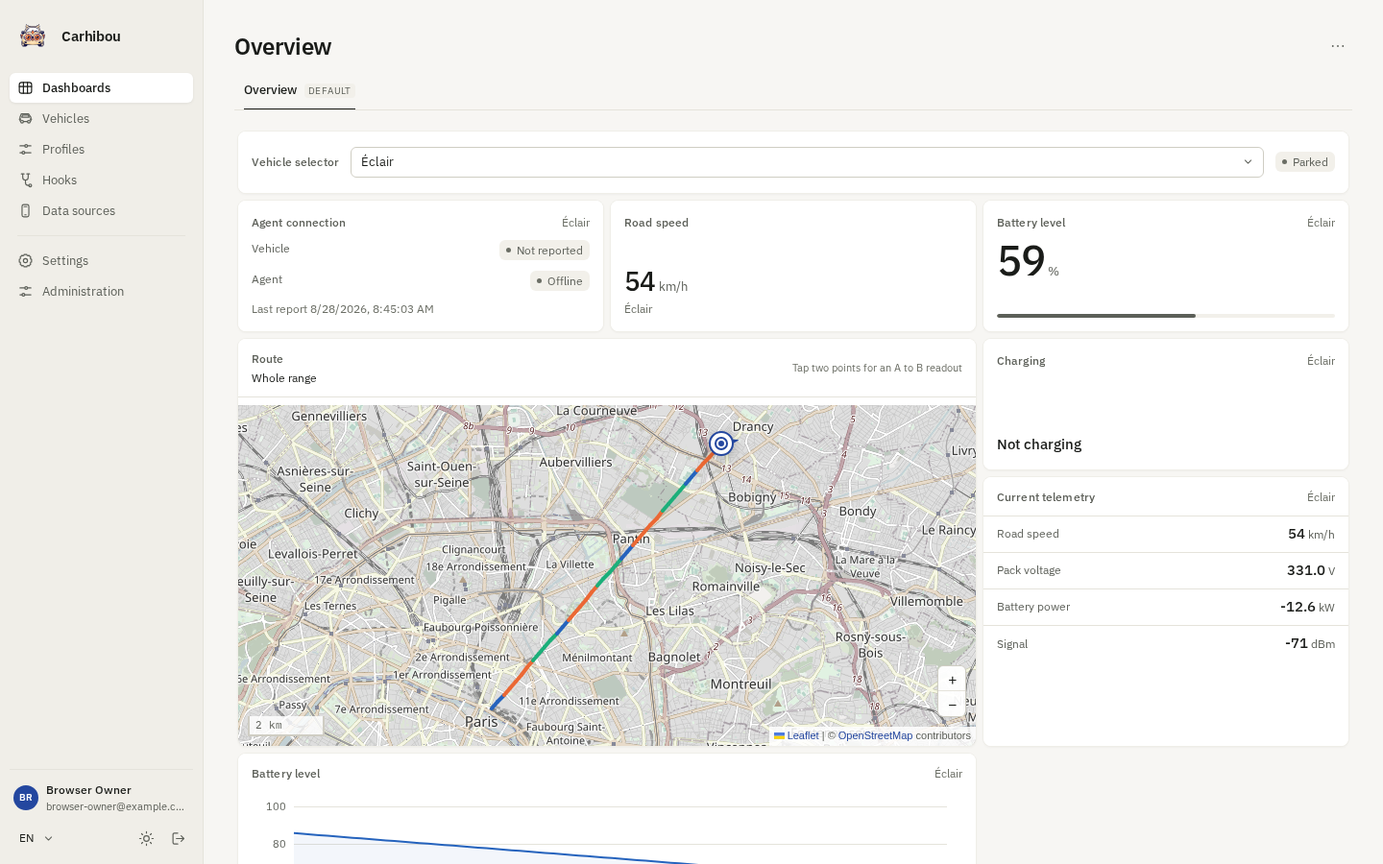
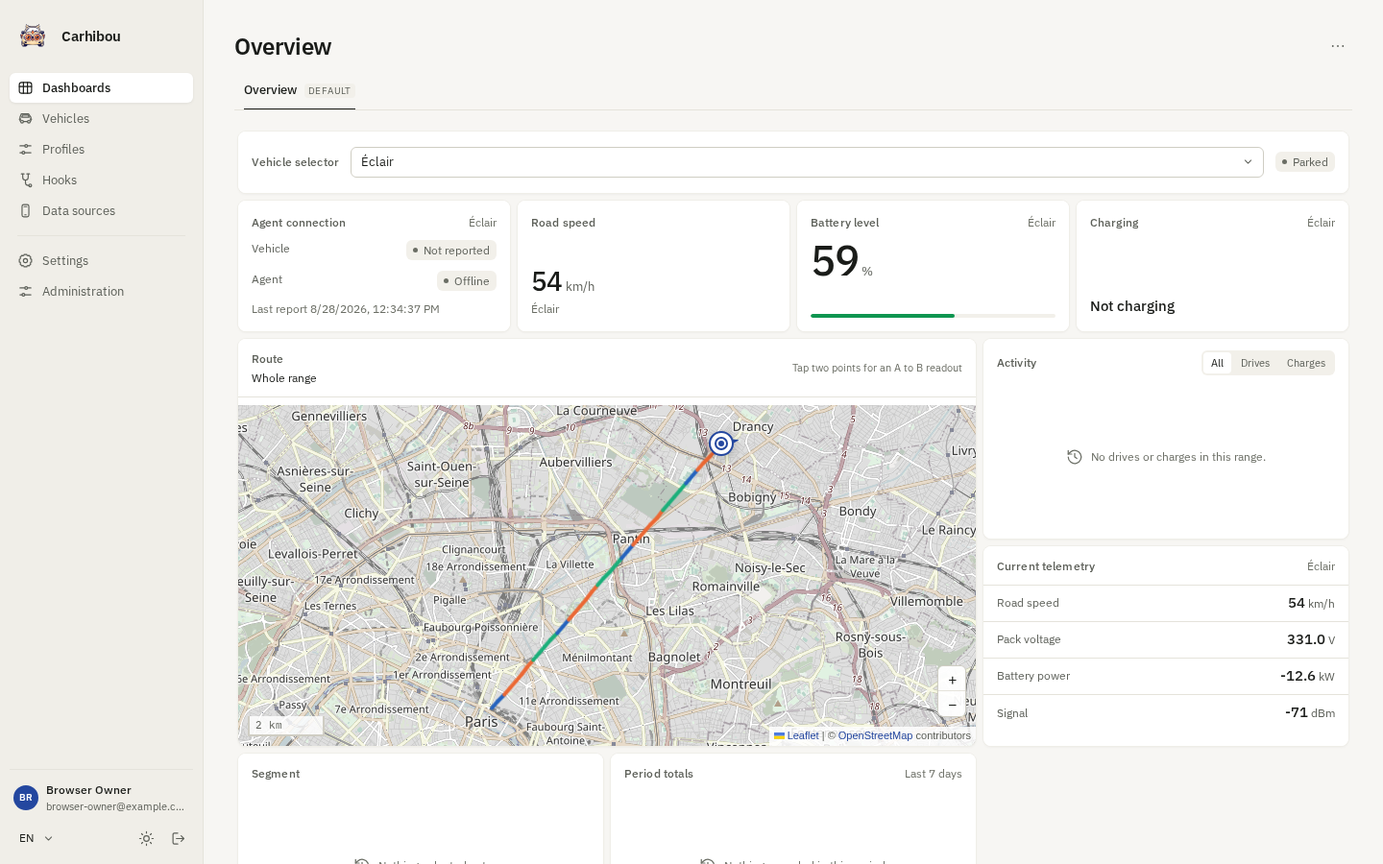
feat: Overview showcases the insight widgets with honest visibility
The default preset grows to thirteen widgets ordered by the questions an
owner asks; universal cards show their empty state while EV-dependent ones
hide until the vehicle reports that data, each per-card configurable.
Period stats omit the energy row for vehicles that never charged. The e2e
hook step synchronizes on the UI before reading the API.

diff --git a/frontend/src/widgets/registry.ts b/frontend/src/widgets/registry.ts
@@ -22,6 +22,25 @@ import { chargingState, energySummary, metricReading, secondaryReadings } from '
 const reports = (vehicle: Vehicle | null | undefined, key: string): boolean =>
   metricReading(vehicle, key).value !== null
 
+/**
+ * Whether a segment-derived card can be hidden.
+ *
+ * Drives and charges come from an endpoint isEmpty cannot await, so the only
+ * signal available at layout time is whether the vehicle has ever reported at
+ * all. A vehicle with state but no drives yet keeps its card and says so; only
+ * one that has never reported is hidden.
+ */
+const neverReported = (vehicle: Vehicle | null | undefined): boolean => !vehicle?.state
+
+/** The pair XyChartWidget falls back to, kept here so isEmpty judges the same axes. */
+export const XY_DEFAULTS = { x: 'battery.soc', y: 'charging.power' }
+
+/*
+ * Two types carry no isEmpty, so the editor offers them no hiding toggle.
+ * `vehicle-selector` is the control the rest of the board follows: hiding it
+ * would strand every other card. `hook-activity` is not vehicle-scoped at all,
+ * and isEmpty is only handed a vehicle, so it has nothing to answer from.
+ */
 const definitions: DashboardWidgetDefinition[] = [
   { type:'vehicle-selector', titleKey:'dashboards.vehicleSelector', component:VehicleSelectorWidget, defaultSize:{w:12,h:1}, needsMetric:false, configSchema:{fields:['title']} },
   { type:'vehicle-media', titleKey:'dashboards.vehicleMedia', component:VehicleMediaWidget, defaultSize:{w:4,h:2}, needsMetric:false, configSchema:{fields:['vehicle_id','title']}, isEmpty:(_widget, vehicle) => !vehicle?.photo_url },
@@ -30,15 +49,15 @@ const definitions: DashboardWidgetDefinition[] = [
   { type:'battery-gauge', titleKey:'dashboards.batteryGauge', component:BatteryGaugeWidget, defaultSize:{w:4,h:2}, needsMetric:false, configSchema:{fields:['vehicle_id','title']}, isEmpty:(_widget, vehicle) => energySummary(vehicle).value === null },
   { type:'charging', titleKey:'dashboards.charging', component:ChargingWidget, defaultSize:{w:4,h:2}, needsMetric:false, configSchema:{fields:['vehicle_id','title']}, isEmpty:(_widget, vehicle) => chargingState(vehicle).active === null },
   { type:'position-map', titleKey:'dashboards.positionMap', component:PositionMapWidget, defaultSize:{w:6,h:4}, needsMetric:false, configSchema:{fields:['vehicle_id','title','time_range_days']}, isEmpty:(_widget, vehicle) => !vehicle?.state?.position },
-  { type:'time-series', titleKey:'dashboards.timeSeries', component:TimeSeriesWidget, defaultSize:{w:6,h:3}, needsMetric:true, configSchema:{fields:['vehicle_id','metric','title','unit','time_range_days']} },
-  { type:'multi-series', titleKey:'dashboards.multiSeries', component:MultiSeriesWidget, defaultSize:{w:6,h:3}, needsMetric:false, needsMetrics:true, configSchema:{fields:['vehicle_id','metrics','title','time_range_days']} },
+  { type:'time-series', titleKey:'dashboards.timeSeries', component:TimeSeriesWidget, defaultSize:{w:6,h:3}, needsMetric:true, configSchema:{fields:['vehicle_id','metric','title','unit','time_range_days']}, isEmpty:(widget, vehicle) => !reports(vehicle, widget.metric ?? '') },
+  { type:'multi-series', titleKey:'dashboards.multiSeries', component:MultiSeriesWidget, defaultSize:{w:6,h:3}, needsMetric:false, needsMetrics:true, configSchema:{fields:['vehicle_id','metrics','title','time_range_days']}, isEmpty:(widget, vehicle) => (widget.metrics ?? []).every((key) => !reports(vehicle, key)) },
   { type:'online-status', titleKey:'dashboards.onlineStatus', component:OnlineStatusWidget, defaultSize:{w:3,h:2}, needsMetric:false, configSchema:{fields:['vehicle_id','title']}, isEmpty:(_widget, vehicle) => !vehicle?.state },
   { type:'agent-health', titleKey:'dashboards.agentHealth', component:AgentHealthWidget, defaultSize:{w:3,h:4}, needsMetric:false, configSchema:{fields:['vehicle_id','title']}, isEmpty:(_widget, vehicle) => Object.keys(vehicle?.state?.agent ?? {}).length === 0 },
   { type:'route-map', titleKey:'dashboards.routeMap', component:RouteMapWidget, defaultSize:{w:8,h:6}, needsMetric:false, configSchema:{fields:['vehicle_id','title','time_range_days']}, isEmpty:(_widget, vehicle) => !vehicle?.state },
-  { type:'activity-feed', titleKey:'dashboards.activityFeed', component:ActivityFeedWidget, defaultSize:{w:4,h:5}, needsMetric:false, configSchema:{fields:['vehicle_id','title','time_range_days']} },
-  { type:'segment-stats', titleKey:'dashboards.segmentStats', component:SegmentStatsWidget, defaultSize:{w:4,h:3}, needsMetric:false, configSchema:{fields:['vehicle_id','title','time_range_days']} },
-  { type:'xy-chart', titleKey:'dashboards.xyChart', component:XyChartWidget, defaultSize:{w:6,h:3}, needsMetric:false, configSchema:{fields:['vehicle_id','title','time_range_days','x_metric','y_metric']}, isEmpty:(_widget, vehicle) => !vehicle?.state },
-  { type:'period-stats', titleKey:'dashboards.periodStats', component:PeriodStatsWidget, defaultSize:{w:6,h:3}, needsMetric:false, configSchema:{fields:['vehicle_id','title','time_range_days']} },
+  { type:'activity-feed', titleKey:'dashboards.activityFeed', component:ActivityFeedWidget, defaultSize:{w:4,h:5}, needsMetric:false, configSchema:{fields:['vehicle_id','title','time_range_days']}, isEmpty:(_widget, vehicle) => neverReported(vehicle) },
+  { type:'segment-stats', titleKey:'dashboards.segmentStats', component:SegmentStatsWidget, defaultSize:{w:4,h:3}, needsMetric:false, configSchema:{fields:['vehicle_id','title','time_range_days']}, isEmpty:(_widget, vehicle) => neverReported(vehicle) },
+  { type:'xy-chart', titleKey:'dashboards.xyChart', component:XyChartWidget, defaultSize:{w:6,h:3}, needsMetric:false, configSchema:{fields:['vehicle_id','title','time_range_days','x_metric','y_metric']}, isEmpty:(widget, vehicle) => !reports(vehicle, widget.x_metric || XY_DEFAULTS.x) && !reports(vehicle, widget.y_metric || XY_DEFAULTS.y) },
+  { type:'period-stats', titleKey:'dashboards.periodStats', component:PeriodStatsWidget, defaultSize:{w:6,h:3}, needsMetric:false, configSchema:{fields:['vehicle_id','title','time_range_days']}, isEmpty:(_widget, vehicle) => neverReported(vehicle) },
   { type:'hook-activity', titleKey:'dashboards.hookActivity', component:HookActivityWidget, defaultSize:{w:4,h:3}, needsMetric:false, configSchema:{fields:['title']} },
 ]
 

diff --git a/frontend/tests/management.test.ts b/frontend/tests/management.test.ts
@@ -429,27 +429,44 @@ describe('vehicle and dashboard management', () => {
     const body = JSON.parse(createCall?.[1]?.body as string)
     expect(body.name).toBe('Overview')
     expect(body.is_default).toBe(true)
-    expect(body.layout.preset).toBe('overview-v6')
-    // Ordered by the questions somebody opening this has: what is the car doing,
-    // how fast, how much is left, where is it. Status comes first because it
-    // carries both the vehicle's state and the agent's, separately.
+    expect(body.layout.preset).toBe('overview-v7')
+    // Ordered by the questions an owner asks: what is it doing, how fast, how
+    // much is left, where is it, what happened recently, what did it cost.
     expect(body.layout.widgets.map((row: {type:string}) => row.type)).toEqual([
-      'vehicle-selector', 'online-status', 'metric-card', 'battery-gauge',
-      'route-map', 'charging', 'telemetry-list', 'time-series', 'vehicle-media',
+      'vehicle-selector', 'online-status', 'metric-card', 'battery-gauge', 'charging',
+      'route-map', 'activity-feed', 'telemetry-list',
+      'segment-stats', 'period-stats', 'vehicle-media', 'time-series', 'xy-chart',
     ])
     // The route map replaces the plain position map, which stays available to add.
     expect(widgetRegistry['position-map']).toBeDefined()
     const speed = body.layout.widgets.find((row: {type:string}) => row.type === 'metric-card')
     expect(speed.metric).toBe('vehicle.speed')
-    // Energy, charging and the photo opt out for vehicles that cannot report them.
+    // Both charts lead with a metric every vehicle can produce, or with the pair
+    // that names the charge curve.
+    expect(body.layout.widgets.find((row: {type:string}) => row.type === 'time-series').metric).toBe('vehicle.speed')
+    const curve = body.layout.widgets.find((row: {type:string}) => row.type === 'xy-chart')
+    expect([curve.x_metric, curve.y_metric]).toEqual(['battery.soc', 'charging.power'])
+    // Only the cards that need electrical data a petrol car cannot produce opt
+    // out. Everything else stays and shows its own empty state.
     const conditional = body.layout.widgets.filter((row: {settings?:{hide_when_empty?:boolean}}) => row.settings?.hide_when_empty)
-    expect(conditional.map((row: {type:string}) => row.type)).toEqual(['battery-gauge', 'charging', 'vehicle-media'])
+    expect(conditional.map((row: {type:string}) => row.type)).toEqual(['battery-gauge', 'charging', 'vehicle-media', 'xy-chart'])
+    // No widget lands on top of another, and none overflows the 12 columns.
+    const cells = new Set<string>()
+    for (const row of body.layout.widgets as Array<{x:number;y:number;w:number;h:number;type:string}>) {
+      expect(row.x + row.w, row.type).toBeLessThanOrEqual(12)
+      for (let x = row.x; x < row.x + row.w; x += 1) {
+        for (let y = row.y; y < row.y + row.h; y += 1) {
+          expect(cells.has(`${x},${y}`), `${row.type} at ${x},${y}`).toBe(false)
+          cells.add(`${x},${y}`)
+        }
+      }
+    }
     expect(wrapper.get('.dashboard-tabs').text()).toContain('Overview')
   })
 
   it('updates dynamic widgets from the vehicle selector and persists card deletion', async () => {
     const secondVehicle = { ...vehicle, id:'vehicle-2', name:'Nimbus', state:{...vehicle.state,metrics:{'fuel.level':25}} }
-    const dashboard = { id:'overview', name:'Overview', is_default:true, layout:{preset:'overview-v6',widgets:[
+    const dashboard = { id:'overview', name:'Overview', is_default:true, layout:{preset:'overview-v7',widgets:[
       {id:'selector',type:'vehicle-selector',x:0,y:0,w:12,h:1},
       {id:'fuel',type:'metric-card',metric:'fuel.level',x:0,y:1,w:3,h:2},
     ]}, created_at:'', updated_at:'' }
@@ -540,7 +557,7 @@ describe('vehicle and dashboard management', () => {
   })
 
   it('inserts the charging curve preset as a preconfigured x-y chart', async () => {
-    const dashboard = { id:'d1', name:'Overview', is_default:true, layout:{ preset:'overview-v6', widgets:[] }, created_at:'', updated_at:'' }
+    const dashboard = { id:'d1', name:'Overview', is_default:true, layout:{ preset:'overview-v7', widgets:[] }, created_at:'', updated_at:'' }
     const fetchMock = vi.fn().mockImplementation((url: string) => {
       if (url.endsWith('/dashboards')) return Promise.resolve(jsonResponse([dashboard]))
       if (url.endsWith('/vehicles')) return Promise.resolve(jsonResponse([vehicle]))
@@ -566,7 +583,7 @@ describe('vehicle and dashboard management', () => {
   })
 
   it('renders a saved charge-curve layout as the x-y chart that replaced it', async () => {
-    const legacy = { id:'d1', name:'Overview', is_default:true, layout:{ preset:'overview-v6', widgets:[
+    const legacy = { id:'d1', name:'Overview', is_default:true, layout:{ preset:'overview-v7', widgets:[
       { id:'legacy', type:'charge-curve', x:0, y:0, w:6, h:3 },
     ] }, created_at:'', updated_at:'' }
     vi.stubGlobal('fetch', vi.fn().mockImplementation((url: string) => {
@@ -587,7 +604,7 @@ describe('vehicle and dashboard management', () => {
   it('hides opted-in widgets for a vehicle that cannot report them, and keeps the rest', async () => {
     // A standard OBD-II diesel: no traction battery, and no fuel-level PID support.
     const diesel = { ...vehicle, id:'vehicle-2', name:'Golf', photo_url:null, state:{ ...vehicle.state, metrics:{ 'engine.rpm':1800 } } }
-    const dashboard = { id:'overview', name:'Overview', is_default:true, layout:{ preset:'overview-v6', widgets:[
+    const dashboard = { id:'overview', name:'Overview', is_default:true, layout:{ preset:'overview-v7', widgets:[
       { id:'selector', type:'vehicle-selector', x:0, y:0, w:12, h:1 },
       { id:'energy', type:'battery-gauge', x:0, y:1, w:4, h:2, settings:{ hide_when_empty:true } },
       { id:'charge', type:'charging', x:4, y:1, w:4, h:2, settings:{ hide_when_empty:true } },

diff --git a/frontend/tests/insights.test.ts b/frontend/tests/insights.test.ts
@@ -205,6 +205,24 @@ describe('driving insight widgets', () => {
     expect(stats.Distance).toContain('+100%')
   })
 
+  it('omits the energy row for a vehicle that never charges, and keeps it once it has', async () => {
+    api({ segments: { drives: [drive()], charges: [] }, previous: { drives: [], charges: [] } })
+    const petrol = mountWidget('period-stats', { time_range_days: 7 })
+    await flushPromises()
+    const petrolStats = petrol.wrapper.findAll('.stat-grid > div').map((row) => row.get('dt').text())
+    expect(petrolStats).toContain('Distance')
+    expect(petrolStats).toContain('Drives')
+    // Nothing charged this vehicle, so it is not told it charged 0.0 kWh.
+    expect(petrolStats).not.toContain('Energy charged')
+
+    api({ segments: { drives: [drive()], charges: [charge({ energy_kwh: 0 })] }, previous: { drives: [], charges: [] } })
+    const electric = mountWidget('period-stats', { time_range_days: 7 })
+    await flushPromises()
+    // A charge that drew nothing measurable is still a charge, and says so.
+    const electricStats = Object.fromEntries(electric.wrapper.findAll('.stat-grid > div').map((row) => [row.get('dt').text(), row.get('dd').text()]))
+    expect(electricStats['Energy charged']).toContain('0.0 kWh')
+  })
+
   it.each([
     ['a body with neither list', {}],
     ['an array body', []],
@@ -294,9 +312,36 @@ describe('driving insight widgets', () => {
 
   it('keeps ranged widgets visible for a vehicle with no live reading', () => {
     const parked = { ...vehicle, state: { ...vehicle.state, position: null, metrics: {} } } as unknown as Vehicle
-    for (const type of ['route-map', 'xy-chart']) {
-      expect(widgetRegistry[type]!.isEmpty?.({ id: 'w', type, x: 0, y: 0, w: 4, h: 3 }, parked), type).toBe(false)
-    }
+    // The route map is about where the vehicle went, which a live snapshot cannot
+    // answer either way, so it stays and lets its own range decide.
+    expect(widgetRegistry['route-map']!.isEmpty?.({ id: 'w', type: 'route-map', x: 0, y: 0, w: 4, h: 3 }, parked)).toBe(false)
+  })
+
+  it('hides an x-y chart only when the vehicle reports neither of its axes', () => {
+    const chart = (extra: Partial<DashboardWidget>, metrics: Record<string, unknown>) =>
+      widgetRegistry['xy-chart']!.isEmpty?.(
+        { id: 'w', type: 'xy-chart', x: 0, y: 0, w: 4, h: 3, ...extra },
+        { ...vehicle, state: { ...vehicle.state, position: null, metrics } } as unknown as Vehicle,
+      )
+    // Hiding answers "can this vehicle ever plot these axes", which only live
+    // state can say cheaply. The range still decides what the visible chart
+    // draws, so one axis in state is enough to keep the card and let the
+    // widget's own empty state report an unpaired or out-of-range window.
+    expect(chart({}, { 'battery.soc': 61 })).toBe(false)
+    expect(chart({}, { 'charging.power': 7 })).toBe(false)
+    expect(chart({}, { 'engine.rpm': 900 })).toBe(true)
+    // Configured axes are judged, not the defaults.
+    expect(chart({ x_metric: 'vehicle.speed', y_metric: 'engine.rpm' }, { 'engine.rpm': 900 })).toBe(false)
+    expect(chart({ x_metric: 'vehicle.speed', y_metric: 'engine.rpm' }, { 'battery.soc': 61 })).toBe(true)
+  })
+
+  it('gives every data widget a hiding predicate, and says why two have none', () => {
+    // The editor only offers the hide toggle where isEmpty can answer, so a
+    // widget without one silently loses the feature.
+    const without = Object.values(widgetRegistry).filter((definition) => !definition.isEmpty).map((definition) => definition.type)
+    // vehicle-selector drives every other card; hook-activity is not scoped to a
+    // vehicle, and isEmpty is handed nothing else to judge from.
+    expect(without.sort()).toEqual(['hook-activity', 'vehicle-selector'])
   })
 
   it('carries an x metric and a y metric through to the chart', async () => {

diff --git a/frontend/src/views/DashboardsView.vue b/frontend/src/views/DashboardsView.vue
@@ -35,7 +35,7 @@ let grid: GridStack | undefined
 let resizeObserver: ResizeObserver | undefined
 let canvasColumns = 12
 let editSnapshot: Dashboard[] | null = null
-const OVERVIEW_PRESET = 'overview-v6'
+const OVERVIEW_PRESET = 'overview-v7'
 
 function cloneDashboards(value: Dashboard[]): Dashboard[] {
   return JSON.parse(JSON.stringify(value)) as Dashboard[]
@@ -93,13 +93,14 @@ function widget(id: string, type: string, vehicleId: string | undefined, x: numb
 const hideWhenEmpty = { settings:{ hide_when_empty:true } }
 
 /**
- * The premade Overview answers, in reading order: where is the vehicle, how much
- * energy is left, is it charging and how fast, what is it reporting right now, how
- * has it moved, and is the agent healthy.
+ * The premade Overview, laid out in the order an owner asks: what is it doing,
+ * how fast, how much is left, where is it, what happened recently, what did it
+ * cost.
  *
- * Energy, charging and the photo hide themselves when a vehicle cannot report them,
- * so the same preset suits an EV, a fuel vehicle and a car whose agent only sees
- * standard OBD-II.
+ * Two classes of card. Universal ones stay put and show their own empty state,
+ * because "no drives yet" is an answer. The four that depend on electrical data
+ * a petrol car or a profile-less agent simply cannot produce opt into hiding, so
+ * the same preset suits an EV, a fuel vehicle and a car seeing only OBD-II.
  */
 function premadeLayout(vehicleId?: string): Dashboard['layout'] {
   void vehicleId
@@ -108,15 +109,23 @@ function premadeLayout(vehicleId?: string): Dashboard['layout'] {
   // status card carries the vehicle's state and the agent's separately, which is
   // why it comes first and why nothing else needs to repeat either.
   return { preset:OVERVIEW_PRESET, widgets: [
+    // What is it doing, and how fast.
     widget(clientId('widget'), 'vehicle-selector', undefined, 0, 0, 12, 1),
-    widget(clientId('widget'), 'online-status', undefined, 0, 1, 4, 2),
-    widget(clientId('widget'), 'metric-card', undefined, 4, 1, 4, 2, { metric:'vehicle.speed' }),
-    widget(clientId('widget'), 'battery-gauge', undefined, 8, 1, 4, 2, hideWhenEmpty),
+    widget(clientId('widget'), 'online-status', undefined, 0, 1, 3, 2),
+    widget(clientId('widget'), 'metric-card', undefined, 3, 1, 3, 2, { metric:'vehicle.speed' }),
+    // How much is left.
+    widget(clientId('widget'), 'battery-gauge', undefined, 6, 1, 3, 2, hideWhenEmpty),
+    widget(clientId('widget'), 'charging', undefined, 9, 1, 3, 2, hideWhenEmpty),
+    // Where is it, and what has it been up to.
     widget(clientId('widget'), 'route-map', undefined, 0, 3, 8, 6, { time_range_days:1 }),
-    widget(clientId('widget'), 'charging', undefined, 8, 3, 4, 2, hideWhenEmpty),
-    widget(clientId('widget'), 'telemetry-list', undefined, 8, 5, 4, 4),
-    widget(clientId('widget'), 'time-series', undefined, 0, 9, 8, 4, { time_range_days:1 }),
-    widget(clientId('widget'), 'vehicle-media', undefined, 8, 9, 4, 4, hideWhenEmpty),
+    widget(clientId('widget'), 'activity-feed', undefined, 8, 3, 4, 3, { time_range_days:7 }),
+    widget(clientId('widget'), 'telemetry-list', undefined, 8, 6, 4, 3),
+    // What did it cost.
+    widget(clientId('widget'), 'segment-stats', undefined, 0, 9, 4, 3, { time_range_days:7 }),
+    widget(clientId('widget'), 'period-stats', undefined, 4, 9, 4, 3, { time_range_days:7 }),
+    widget(clientId('widget'), 'vehicle-media', undefined, 8, 9, 4, 3, hideWhenEmpty),
+    widget(clientId('widget'), 'time-series', undefined, 0, 12, 6, 4, { metric:'vehicle.speed', time_range_days:1 }),
+    widget(clientId('widget'), 'xy-chart', undefined, 6, 12, 6, 4, { x_metric:'battery.soc', y_metric:'charging.power', time_range_days:7, ...hideWhenEmpty }),
   ] }
 }
 

diff --git a/frontend/e2e/core-flow.spec.ts b/frontend/e2e/core-flow.spec.ts
@@ -198,17 +198,24 @@ test('complete browser journey from bootstrapped admin to persistent hook state'
   await page.getByPlaceholder('Search vehicles…').fill('Touring')
   await expect(page.getByRole('option')).toHaveCount(1)
   await page.getByRole('option', { name:'Touring', exact:true }).click()
-  // Energy and charging opted into hiding, so a vehicle with no telemetry drops them
-  // instead of showing two permanently empty cards.
+  // The four electrical cards opted into hiding, so a vehicle with no telemetry
+  // drops them instead of showing permanently empty cards.
   await expect(page.locator('[data-widget-type="battery-gauge"]')).toHaveCount(0)
   await expect(page.locator('[data-widget-type="charging"]')).toHaveCount(0)
-  // A widget that did not opt in keeps its own empty state.
+  await expect(page.locator('[data-widget-type="xy-chart"]')).toHaveCount(0)
+  await expect(page.locator('[data-widget-type="vehicle-media"]')).toHaveCount(0)
+  // Widgets whose question every vehicle can answer stay and say so themselves.
   await expect(page.locator('[data-widget-type="telemetry-list"] .dashboard-widget-empty')).toContainText('No data yet')
+  for (const type of ['online-status', 'route-map', 'activity-feed', 'segment-stats', 'period-stats', 'time-series']) {
+    await expect(page.locator(`[data-widget-type="${type}"]`), type).toHaveCount(1)
+  }
   await expect(page.locator('[data-widget-type="position-map"] .vehicle-map')).toHaveCount(0)
   await vehicleSelector.getByRole('combobox').click()
   await page.getByPlaceholder('Search vehicles…').fill('Éclair')
   await page.getByRole('option', { name:/Éclair/ }).click()
   await expect(page.locator('[data-widget-type="battery-gauge"] .energy-value')).toHaveText('77')
+  // The EV reports battery.soc, so the charge curve comes back with it.
+  await expect(page.locator('[data-widget-type="xy-chart"]')).toHaveCount(1)
 
   const liveSample = {
     id: randomUUID(),
@@ -277,6 +284,11 @@ test('complete browser journey from bootstrapped admin to persistent hook state'
   await hookModal.getByLabel('Description').fill('Verifies persistent hook state through the browser flow')
   await hookModal.locator('.cm-content').fill('ctx.state["runs"] = ctx.state.get("runs", 0) + 1\nctx.log.info("browser e2e", runs=ctx.state["runs"], dry_run=ctx.dry_run)')
   await hookModal.getByRole('button', { name: 'Save', exact: true }).click()
+  // The view closes this modal and refreshes its list only after the POST it
+  // awaits resolves, so both are evidence the hook is committed. Reading the API
+  // straight off the click raced the insert and saw an empty collection.
+  await expect(hookModal).toBeHidden()
+  await expect(page.locator('.hook-list').getByRole('button', { name: /Browser state counter/ })).toBeVisible()
   const [hook] = await browserJson<HookRecord[]>(page, 'get', '/api/v1/hooks')
   expect(hook?.id).toBeTruthy()
 

diff --git a/frontend/src/widgets/PeriodStatsWidget.vue b/frontend/src/widgets/PeriodStatsWidget.vue
@@ -9,6 +9,7 @@ import { EMPTY_SEGMENTS, loadSegmentsBetween } from '../api/segments'
 interface PeriodTotals {
   distance: number
   drives: number
+  charges: number
   charged: number
   efficiency: number | null
 }
@@ -26,7 +27,7 @@ function totals(segments: Segments): PeriodTotals {
   const distance = segments.drives.reduce((sum, drive) => sum + (drive.distance_km ?? 0), 0)
   const charged = segments.charges.reduce((sum, charge) => sum + (charge.energy_kwh ?? 0), 0)
   const used = segments.drives.reduce((sum, drive) => sum + (drive.energy_kwh ?? 0), 0)
-  return { distance, drives: segments.drives.length, charged, efficiency: distance > 0 && used > 0 ? (used / distance) * 100 : null }
+  return { distance, drives: segments.drives.length, charges: segments.charges.length, charged, efficiency: distance > 0 && used > 0 ? (used / distance) * 100 : null }
 }
 
 const now = computed(() => totals(current.value ?? EMPTY_SEGMENTS))
@@ -44,7 +45,7 @@ function delta(value: number, baseline: number): string | null {
 const stats = computed(() => [
   { key: 'distance', label: t('insights.distance'), value: `${now.value.distance.toFixed(0)} km`, delta: delta(now.value.distance, before.value.distance) },
   { key: 'drives', label: t('insights.drives'), value: String(now.value.drives), delta: delta(now.value.drives, before.value.drives) },
-  { key: 'charged', label: t('insights.energyCharged'), value: `${now.value.charged.toFixed(1)} kWh`, delta: delta(now.value.charged, before.value.charged) },
+  { key: 'charged', label: t('insights.energyCharged'), value: now.value.charges === 0 ? '' : `${now.value.charged.toFixed(1)} kWh`, delta: delta(now.value.charged, before.value.charged) },
   { key: 'efficiency', label: t('insights.efficiency'), value: now.value.efficiency === null ? '' : `${now.value.efficiency.toFixed(1)} kWh/100km`, delta: now.value.efficiency === null || before.value.efficiency === null ? null : delta(now.value.efficiency, before.value.efficiency) },
 ].filter((stat) => stat.value !== ''))
 

diff --git a/frontend/src/widgets/XyChartWidget.vue b/frontend/src/widgets/XyChartWidget.vue
@@ -7,7 +7,7 @@ import DashboardWidgetEmpty from '../components/DashboardWidgetEmpty.vue'
 import TimeSeriesChart from '../components/TimeSeriesChart.vue'
 import { metricDefinition, metricLabel } from '../vehicleDisplay'
 import { useDashboardRuntime, useDashboardVehicle } from './dashboardContext'
-import { presetFor } from './registry'
+import { XY_DEFAULTS, presetFor } from './registry'
 import { followSelection, mergeSegments, metricNumber } from './segments'
 
 const props = defineProps<{ widget: DashboardWidget }>()
@@ -19,8 +19,8 @@ const segments = ref<Segments | null>(null)
 let segmentRequest = 0
 let request = 0
 
-const xMetric = computed(() => props.widget.x_metric || 'battery.soc')
-const yMetric = computed(() => props.widget.y_metric || 'charging.power')
+const xMetric = computed(() => props.widget.x_metric || XY_DEFAULTS.x)
+const yMetric = computed(() => props.widget.y_metric || XY_DEFAULTS.y)
 const xDefinition = computed(() => metricDefinition(xMetric.value))
 const yDefinition = computed(() => metricDefinition(yMetric.value))
 const days = computed(() => props.widget.time_range_days ?? 7)
